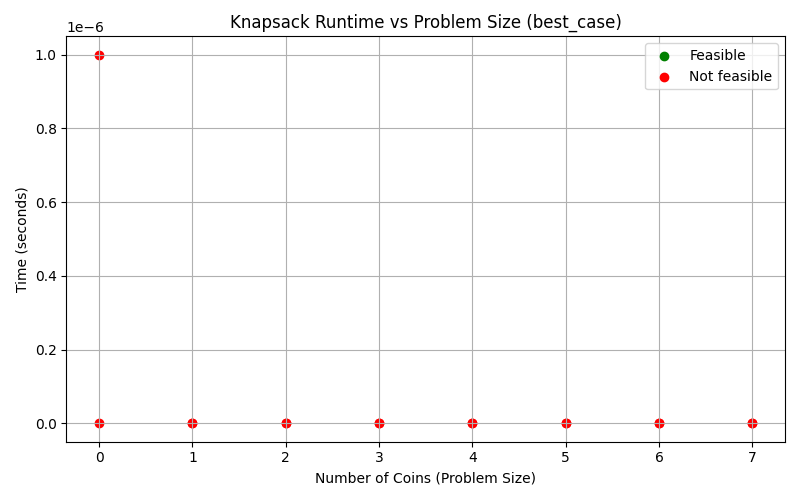
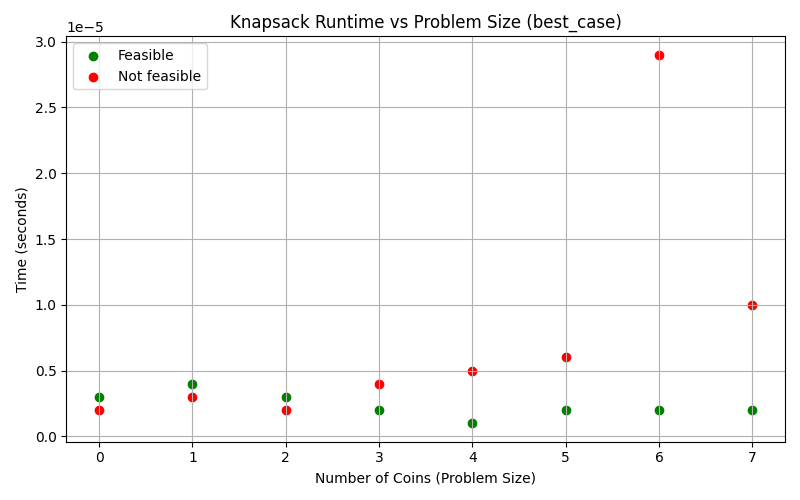
bestcase branch

diff --git a/src/knapsack_garcias.py b/src/knapsack_garcias.py
@@ -237,5 +237,42 @@ class Knapsack(KnapsackAbstractClass):
             given our combination of coins. We stil return false in our 
             tuple because it's not solvable.
         """
+
+        if not used:
+            used = defaultdict(int)
+        if best is None:
+            best = {}
+
+        curr_sum = sum(coin*cnt for coin, cnt in used.items())
+        best_sum = sum(coin*cnt for coin, cnt in best.items()) if best else 0
+
+        # Updating best sum if necessary
+        if curr_sum > best_sum:
+            best.clear()
+            for coin, cnt in used.items():
+                if cnt > 0:
+                    best[coin] = cnt
         
-        return False, "Not implemented"
+        if target == 0:
+            return True, dict(used)
+        
+        for coin, max_cnt in coins.items():
+            # Move on if coins are used up
+            if used[coin] >= max_cnt:
+                continue
+            #Pruning
+            if target - coin < 0:
+                continue
+
+            # Choosing coin then recursing with the updated target
+            used[coin] += 1
+            feasible, solution = self.knapsack_bestcase(target - coin, coins, used, best)
+            # Bringing count back
+            used[coin] -= 1
+
+            if feasible:
+                return True, dict(solution)
+
+        # If an exact sum is impossible, return the combination that got the closest
+        return False, dict(best)
+

diff --git a/test_knapsack_garcias.py b/test_knapsack_garcias.py
@@ -89,7 +89,7 @@ def test_knapsack_backtracking(solver):
             assert bt_ok == expected
 
 def test_knapsack_bestcase():
-    solver = Knapsack(TEST_BESTCASE_FILE)  # your solver
+    solver = Knapsack(TEST_BESTCASE_FILE) 
     tests = parse_bestcase_file(TEST_BESTCASE_FILE)
 
     for _, target, coins, expected_dict in tests:
